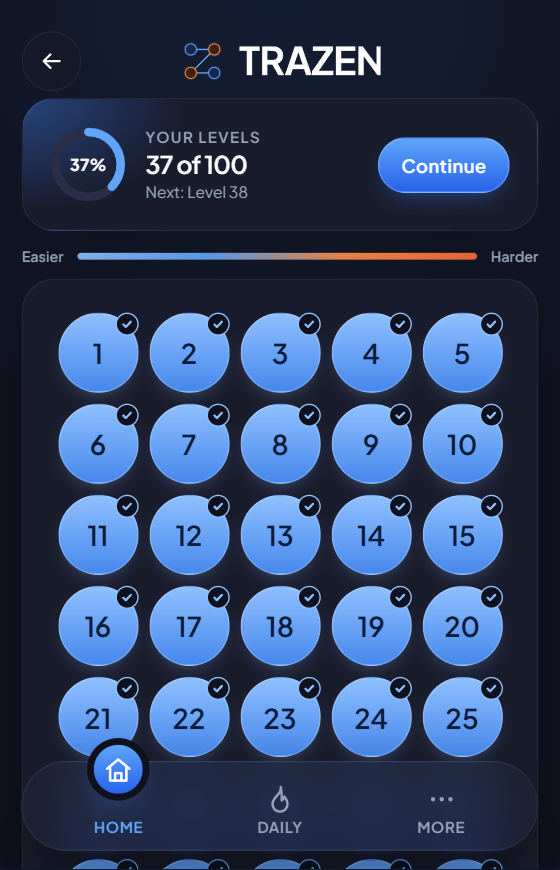
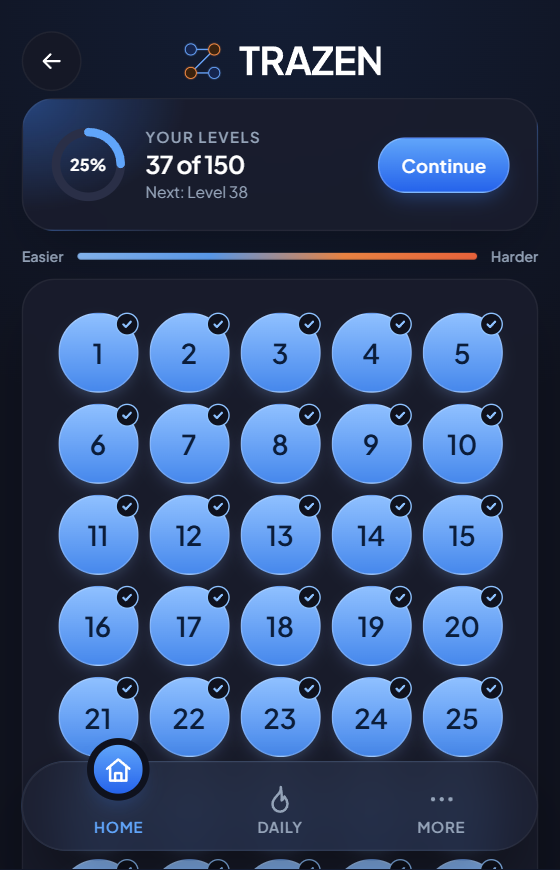
Trazen: captura del Panel de niveles con «37 de 150»

diff --git a/trazen/en/index.html b/trazen/en/index.html
@@ -404,7 +404,7 @@
         <div class="txt"><h3>A challenge every day</h3><p>The same one for everyone. Keep your streak alive (a streak saver covers you if you miss a day) and replay past ones from the calendar.</p></div>
       </article>
       <article class="tarjeta rev">
-        <div class="foto"><img src="img/niveles.png" alt="Level panel: 37 of 100 completed" loading="lazy"></div>
+        <div class="foto"><img src="img/niveles.png" alt="Level panel: 37 of 150 completed" loading="lazy"></div>
         <div class="txt"><h3>Over 100 levels</h3><p>From small boards to real brain-teasers. The difficulty ramps up little by little.</p></div>
       </article>
       <article class="tarjeta rev">

diff --git a/trazen/index.html b/trazen/index.html
@@ -402,7 +402,7 @@
         <div class="txt"><h3>Un reto cada día</h3><p>El mismo para todos. Mantén la racha (un comodín te cubre si fallas un día) y rejuega los anteriores desde el calendario.</p></div>
       </article>
       <article class="tarjeta rev">
-        <div class="foto"><img src="img/niveles.png" alt="Panel de niveles: 37 de 100 completados" loading="lazy"></div>
+        <div class="foto"><img src="img/niveles.png" alt="Panel de niveles: 37 de 150 completados" loading="lazy"></div>
         <div class="txt"><h3>Más de 100 niveles</h3><p>De tableros pequeños a verdaderos retos. La dificultad sube poco a poco.</p></div>
       </article>
       <article class="tarjeta rev">
